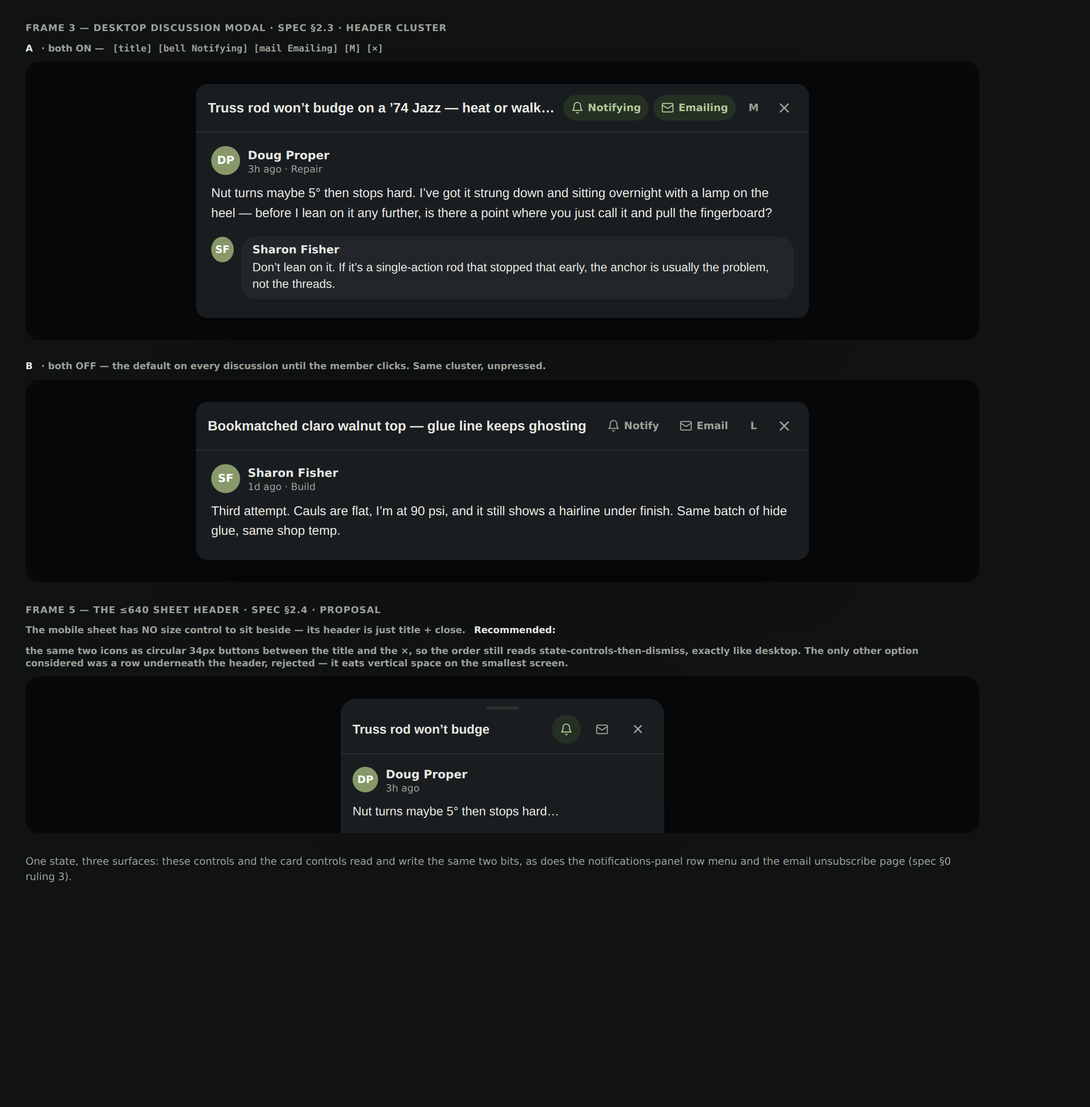
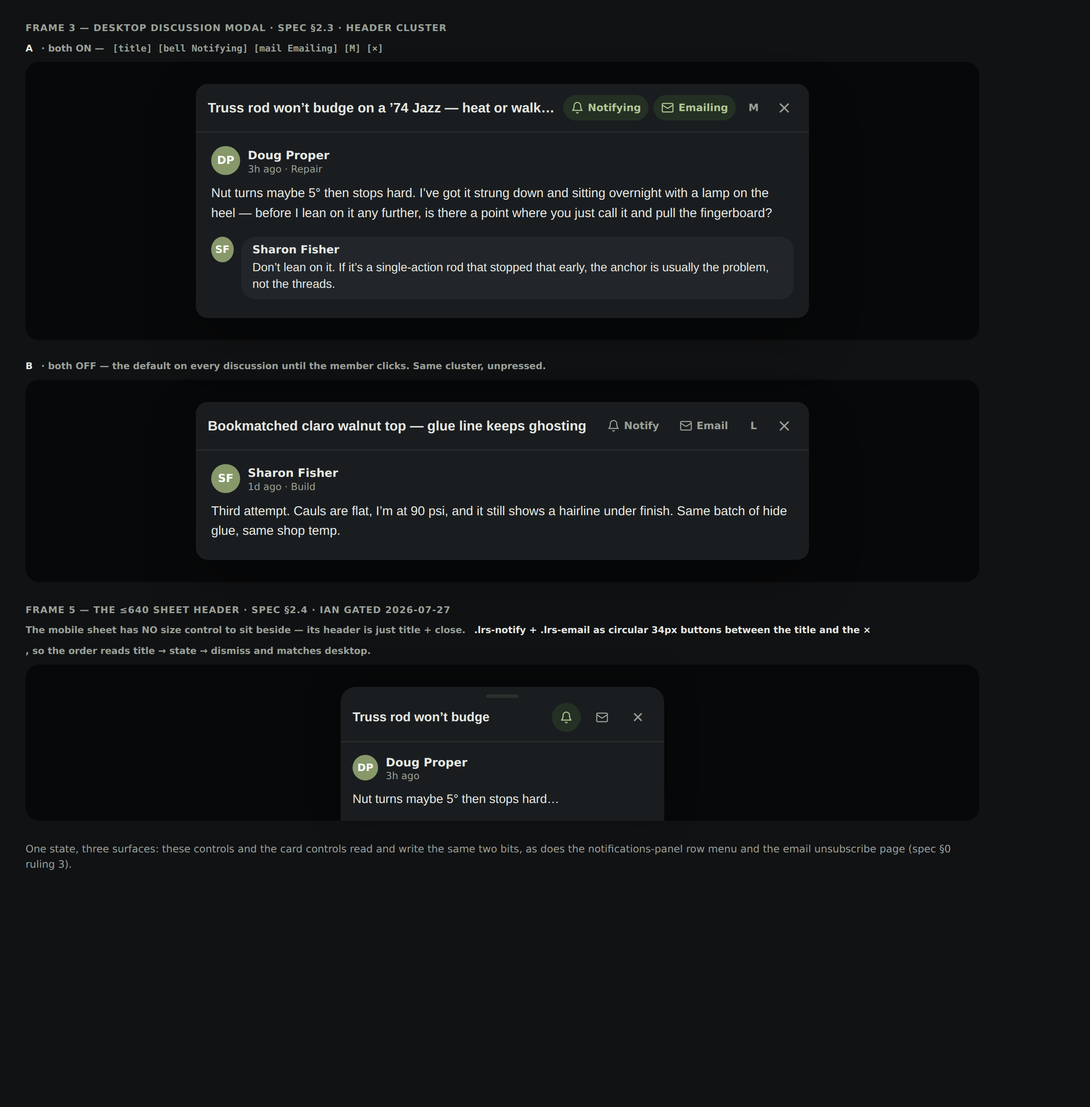
THREAD-FOLLOW-SPEC: both mobile placements gated (Ian 2026-07-27); rejected designs deleted
IAN GATE, keeper-relayed 2026-07-27 — both mobile questions CLOSED, both went the
way this lane recommended:

(1) MOBILE CARD (§2.2b, frame 2) — the two icons at the RIGHT END of the
.lg-card-actions bar, icon-only, margin-left:auto, 44px touch targets. Ian's
reason kept in the doc because it generalises: a card control whose whole point
is opting in without opening the thread is worthless if it only exists inside
the thread.

(2) MOBILE SHEET HEADER (§2.4, frame 5) — .lrs-notify + .lrs-email as circular
34px buttons BETWEEN .lrs-t and .lrs-x, so the order reads title -> state ->
dismiss and matches desktop.

Both rejected alternatives DELETED, not archived, same handling as the card
fallback: the "omit from mobile cards" variant is gone from mock-card.html, the
"row beneath the header" placement is gone from mock-modal.html and §2.4, and
each closure is recorded with its date at §9.3 so the decision stays findable
without the rejected design being re-proposable. Frames 2 and modal-d-* re-shot
and eyeballed; §7's table now marks 1/2/5 gated and only 6/7 open.

PROVENANCE NOTED IN THE DOC: closure 1 (two icons) is devmsg board post id 1377;
closures 2 and 3 arrived keeper-relayed through the operator and were NOT on the
board as of id 1378. Recorded so each ruling's origin is on the record rather
than flattened into "Ian said".

NEW §6b — CROSS-LANE COLLISION, raised not buried. This lane's §6 adds a
"Discussion emails" master row to #lg-email-prefs
[…]

Changed region(s): [[0.0312, 0.5296, 0.875, 0.81]]

diff --git a/footer-mockups/threadfollow-notif-panel/index.html b/footer-mockups/threadfollow-notif-panel/index.html
@@ -77,20 +77,22 @@
     · cites <code>main@c10df43</code> · <b>spec + mock only, nothing built</b></p>
 
   <div class="gated">
-    <h2>✓ Gated 27 July — the card carries two icons</h2>
-    <p>You chose the two-icon design over the single expanding control. That is now the spec, and the
-      rejected design has been <b>deleted</b> from the doc rather than kept as an alternative.
-      <b>Frame 1 below is settled</b> — everything else on this page is waiting on you.</p>
+    <h2>✓ Gated 27 July — all three placements are settled</h2>
+    <p><b>Desktop card:</b> two icons, not one expanding control. <b>Mobile card:</b> the same two
+      icons at the right end of the mobile action bar. <b>Mobile sheet:</b> round buttons between the
+      title and the ×. Every rejected alternative has been <b>deleted</b> from the mocks and the doc
+      rather than kept around. <b>Frames 1, 2, 3 and 5 are done</b> — two decisions left below.</p>
   </div>
 
   <div class="rules">
-    <h2>Four things to decide — each has a recommendation</h2>
+    <h2>Two things to decide — each has a recommendation</h2>
     <ol>
-      <li><b>Mobile card</b> — mobile uses a different action bar. <i>Recommended: same two icons, right end of it.</i> → frame 2</li>
-      <li><b>Mobile sheet header</b> — it has no S/M/L/XL to sit beside. <i>Recommended: circular peers of the ×.</i> → frame 5</li>
-      <li><b>Account page</b> — how per-thread email fits the Weekly/Event switches. <i>Recommended: one new master row.</i> → frame 6</li>
+      <li><b>Account page</b> — how per-thread email fits the Weekly/Event switches you already ship. <i>Recommended: one new master row.</i> → frame 6</li>
       <li><b>The 1,519 subscriptions already emailing members</b> — <i>Recommended: change no data, make them visible and one tap from off.</i> → frame 7</li>
     </ol>
+    <p style="font:400 13px/1.6 var(--lg-font-sans);color:var(--lg-mute);margin:12px 0 0">
+      Plus one with no frame: whether an explicit email toggle should send email as it happens, or
+      only feed the weekly recap — at the bottom of this page.</p>
   </div>
 
   <h2 class="sec">Frame 1 — the feed card <span class="ok">gated</span></h2>
@@ -103,28 +105,26 @@
     <figure><img src="shots/card-d-dark.png" alt="Desktop feed card, dark"><figcaption>Desktop 1280 · dark</figcaption></figure>
   </div>
 
-  <h2 class="sec">Frame 2 — the mobile card <span class="ask">needs you</span></h2>
-  <h3 class="fr">Recommended: the same two icons, right end of the mobile bar</h3>
+  <h2 class="sec">Frame 2 — the mobile card <span class="ok">gated</span></h2>
+  <h3 class="fr">The same two icons, right end of the mobile bar</h3>
   <p class="fr-note">Mobile cards use a different, sparser action bar — only Like, replies and Share,
-    with wide gaps — so unlike desktop there is room, with space to spare.
-    <b>The alternative</b> is to leave mobile cards alone and let the sheet header carry both. Cleaner
-    card, but then someone scrolling the feed can't opt in to anything without opening every thread
-    first, which is most of what a card control is for. Both are drawn.</p>
+    with wide gaps — so unlike desktop there is room, with space to spare. Icon-only, 44px touch
+    targets. Your reason for choosing it is worth keeping: a card control whose whole point is opting
+    in without opening the thread is worthless if it only exists inside the thread.</p>
   <div class="grid">
     <figure><img src="shots/card-m-light.png" alt="Mobile card, light"><figcaption>Mobile 390 · light — recommended above, alternative below</figcaption></figure>
     <figure><img src="shots/card-m-dark.png" alt="Mobile card, dark"><figcaption>Mobile 390 · dark</figcaption></figure>
   </div>
   <p class="live">Live: <a href="mock-card.html">mock-card.html</a> · <a href="mock-card.html?theme=dark">dark</a></p>
 
-  <h2 class="sec">Frames 3 + 5 — the discussion modal <span class="ask">sheet needs you</span></h2>
+  <h2 class="sec">Frames 3 + 5 — the discussion modal <span class="ok">gated</span></h2>
   <h3 class="fr">Beside the size control</h3>
   <p class="fr-note">The cluster reads <b>[title] [bell] [mail] [M] [×]</b> — the two state controls
     grouped together, close rightmost. Second block shows both OFF, which is what every discussion
     looks like until someone clicks.<br><br>
-    <b>Frame 5, third block — the mobile sheet header needs your word.</b> It has no S/M/L/XL control
-    to sit beside. <b>Recommended:</b> the same two icons as round buttons between the title and the
-    ×, so the order still reads title → switches → close, exactly like desktop. The only other option
-    was a row underneath the header; rejected, it eats vertical space on the smallest screen.</p>
+    <b>Frame 5, third block — the mobile sheet header.</b> It has no S/M/L/XL control to sit beside,
+    so the two icons are round buttons between the title and the ×, keeping the order
+    title → switches → close, exactly like desktop.</p>
   <div class="grid">
     <figure><img src="shots/modal-d-light.png" alt="Modal header, light"><figcaption>Desktop 1280 · light</figcaption></figure>
     <figure><img src="shots/modal-d-dark.png" alt="Modal header, dark"><figcaption>Desktop 1280 · dark</figcaption></figure>
@@ -211,6 +211,19 @@
     <p>With opt-in now the rule, the natural answer is that <b>an explicit envelope toggle is what
       earns you the email</b> — a per-discussion email switch that never sends email would be a
       contradiction. But that is your call, not ours, so nothing has been decided.</p>
+  </div>
+
+  <div class="open" style="border-color:var(--lg-sage);background:var(--lg-sage-tint)">
+    <h2 style="color:var(--lg-sage-d)">Heads-up — two lanes are designing your account page</h2>
+    <p>Frame 6 adds a <b>Discussion emails</b> row to the email preferences card. The weekly-recap
+      lane on dev2 is building its per-user digest section into that <b>same card</b>, governed by
+      the Weekly Digest switch you already ship. Nobody has done anything wrong — the two just
+      arrived from opposite ends.</p>
+    <p>The rule we are proposing keeps them from fighting: <b>the account page holds one switch per
+      kind of email; the per-discussion switches decide which discussions are in that kind; and a
+      recap is content inside a kind, never a new kind of its own.</b> If the recap stays under the
+      Weekly Digest switch rather than growing its own, both land cleanly and you keep one coherent
+      page instead of two half-designs.</p>
   </div>
 
   <p class="foot">Mock tooling, never shipped. Frames shot serially with headless Chrome on dev1;

diff --git a/footer-mockups/threadfollow-notif-panel/mock-card.html b/footer-mockups/threadfollow-notif-panel/mock-card.html
@@ -16,9 +16,12 @@
   (_feed.php:1617-1626) carries six controls; with the two toggles it carries eight,
   which is the shape Ian approved on sight.
 
-  MOBILE is the open one (spec §9.3 q1): mobile cards do NOT use .fc-actions — they use
-  the .lg-card-actions/.lg-act bar (forums.css @<=640, gap 18px), and .fc-share/.fc-save
-  are desktop-only. Both the recommendation and the one alternative are drawn below.
+  MOBILE ALSO GATED 2026-07-27: the two icons go at the RIGHT END of the .lg-card-actions bar
+  (forums.css @<=640, gap 18px), icon-only, margin-left:auto, 44px touch targets. Mobile cards do
+  NOT use .fc-actions and .fc-share/.fc-save are desktop-only, so this is its own placement.
+  The rejected alternative (omit from mobile cards, sheet header only) has been DELETED, not
+  archived — Ian's reason: a card control whose point is opting in without opening the thread is
+  worthless if it only exists inside the thread.
   Open with ?theme=dark for the dark frames.
 -->
 <link rel="stylesheet" href="_tokens.css">
@@ -123,8 +126,8 @@
     </div>
   </article>
 
-  <p class="capt" style="margin-top:30px">Frame 2 — mobile card · spec §9.3 q1 · <b>PROPOSAL</b></p>
-  <p class="legend"><b>Recommended</b> — same two icons, right end of the mobile action bar, icon-only.
+  <p class="capt" style="margin-top:30px">Frame 2 — mobile card · spec §2.2b · <b>IAN GATED 2026-07-27 — this is the design</b></p>
+  <p class="legend">Same two icons, right end of the mobile action bar, icon-only, 44px touch targets.
     The mobile bar carries only three items (Like / replies / Share) with 18px gaps, so unlike desktop there is room.</p>
 
   <article class="feed-card" style="max-width:360px">
@@ -143,25 +146,6 @@
       <span class="spacer"></span>
       <button class="fc-notify" aria-pressed="true" aria-label="Notifications on"><span class="gly"><svg class="gi" viewBox="0 0 24 24" fill="none" stroke="currentColor" stroke-width="2" stroke-linecap="round" stroke-linejoin="round" aria-hidden="true"><path d="M6 8a6 6 0 0 1 12 0c0 7 3 9 3 9H3s3-2 3-9"/><path d="M10.3 21a1.94 1.94 0 0 0 3.4 0"/></svg></span></button>
       <button class="fc-email" aria-pressed="false" aria-label="Emails off"><span class="gly"><svg class="gi" viewBox="0 0 24 24" fill="none" stroke="currentColor" stroke-width="2" stroke-linecap="round" stroke-linejoin="round" aria-hidden="true"><rect x="2" y="4" width="20" height="16" rx="2"/><path d="m22 7-8.97 5.7a1.94 1.94 0 0 1-2.06 0L2 7"/></svg></span></button>
-    </div>
-  </article>
-
-  <p class="legend"><b>Alternative</b> — leave mobile cards alone; the sheet header carries both (one tap away).
-    Cleaner card, but a member browsing the feed cannot opt in without opening every thread first.</p>
-
-  <article class="feed-card" style="max-width:360px">
-    <div class="feed-card__meta-top">
-      <span class="lg-card-avatar">SF</span>
-      <span class="lg-card-id"><a class="lg-card-author" href="#">Sharon Fisher</a><span class="lg-card-time">1d ago</span></span>
-    </div>
-    <div class="feed-card__header-body">
-      <h3 class="fc-title" style="font-size:19px">Bookmatched claro walnut top</h3>
-      <p class="fc-excerpt" style="font-size:14.5px">Third attempt. Cauls are flat, I’m at 90 psi…</p>
-    </div>
-    <div class="m-bar">
-      <button class="lg-act"><svg class="gi" viewBox="0 0 24 24" fill="none" stroke="currentColor" stroke-width="2" stroke-linecap="round" stroke-linejoin="round" aria-hidden="true"><path d="M7 10v12"/><path d="M15 5.88 14 10h5.83a2 2 0 0 1 1.92 2.56l-2.33 8A2 2 0 0 1 17.5 22H4a2 2 0 0 1-2-2v-8a2 2 0 0 1 2-2h2.76a2 2 0 0 0 1.79-1.11L12 2a3.13 3.13 0 0 1 3 3.88Z"/></svg> Like</button>
-      <button class="lg-act"><svg class="gi" viewBox="0 0 24 24" fill="none" stroke="currentColor" stroke-width="2" aria-hidden="true"><path d="M21 11.5a8.5 8.5 0 0 1-12.3 7.6L3 21l1.9-5.7A8.5 8.5 0 1 1 21 11.5z"/></svg> 4</button>
-      <button class="lg-act"><svg class="gi" viewBox="0 0 24 24" fill="none" stroke="currentColor" stroke-width="2" stroke-linecap="round" aria-hidden="true"><circle cx="18" cy="5" r="3"/><circle cx="6" cy="12" r="3"/><circle cx="18" cy="19" r="3"/><path d="M8.6 13.5l6.8 4M15.4 6.5l-6.8 4"/></svg></button>
     </div>
   </article>
 

diff --git a/footer-mockups/threadfollow-notif-panel/mock-modal.html b/footer-mockups/threadfollow-notif-panel/mock-modal.html
@@ -18,8 +18,10 @@
   is not on the page at all: retired 2026-06-10, hub_render_view_toggles() emits nothing
   (_filter-rail.php:103-114) and hub-polish.js:4387 also CSS-hides it. See spec §2.3.
 
-  Also drawn: the ≤640 sheet header (.lrs-hd, hub-polish.js:3628) which has NO size
-  cluster — that is the §2.4 parity surface, open question §9.3 q2.
+  Also drawn: the ≤640 sheet header (.lrs-hd, hub-polish.js:3628) which has NO size cluster.
+  IAN GATED 2026-07-27: circular 34px buttons between .lrs-t and .lrs-x. The rejected placement
+  (a control row BENEATH the header) has been DELETED, not archived — it added permanent vertical
+  chrome to the smallest screen.
   Open with ?theme=dark for the dark frames.
 -->
 <link rel="stylesheet" href="_tokens.css">
@@ -120,11 +122,10 @@
     </div>
   </div>
 
-  <p class="capt" style="margin-top:26px">Frame 5 — the ≤640 sheet header · spec §2.4 · <b>PROPOSAL</b></p>
+  <p class="capt" style="margin-top:26px">Frame 5 — the ≤640 sheet header · spec §2.4 · <b>IAN GATED 2026-07-27</b></p>
   <p class="legend">The mobile sheet has NO size control to sit beside — its header is just title + close.
-    <b>Recommended:</b> the same two icons as circular 34px buttons between the title and the ×, so the
-    order still reads state-controls-then-dismiss, exactly like desktop. The only other option considered
-    was a row underneath the header, rejected — it eats vertical space on the smallest screen.</p>
+    <b>.lrs-notify + .lrs-email as circular 34px buttons between the title and the ×</b>, so the order
+    reads title → state → dismiss and matches desktop.</p>
   <div class="stage" style="padding:26px 26px 0">
     <div class="lrs-card">
       <div class="lrs-grab"></div>

diff --git a/docs/atlas/THREAD-FOLLOW-SPEC.md b/docs/atlas/THREAD-FOLLOW-SPEC.md
@@ -4,9 +4,14 @@
 > Lane: threadfollow-spec (dev1, docs+mock only). Branch `threadfollow-spec`.
 > **REVISED 2026-07-27 (v2) — Ian: TWO independent toggles per discussion, NOTIFICATIONS and
 > EMAILS, both default OFF, both unsettable from three places including the email itself.**
-> **IAN GATED THE CARD 2026-07-27: two icons, not a single expanding control.** He reviewed the
-> previs and chose the two-icon design; the single-control fallback is dead and has been removed
-> from this document rather than kept as an alternative.
+> **IAN GATED, 2026-07-27 — three closures, all recorded here so none is re-litigated:**
+> **(1) the CARD carries two icons**, not a single expanding control; **(2) MOBILE CARD** — the two
+> icons go at the right end of the `.lg-card-actions` bar; **(3) MOBILE SHEET HEADER** — circular
+> peers between the title and the ×. Each rejected alternative has been **deleted** from this
+> document rather than archived.
+> *(Closures 2 and 3 were keeper-relayed through the operator on 2026-07-27 and were not posted to
+> the devmsg board as of id 1378; closure 1 is board post id 1377. Noted so the provenance of each
+> is on the record.)*
 > This supersedes v1's single follow toggle, which itself reversed the original auto-subscribe
 > design. See §0.0 for the trail and §9 for what is still Ian's to decide.
 > Mock frames: `footer-mockups/threadfollow-notif-panel/` — published for gating at
@@ -48,6 +53,8 @@ replies to their own topic without toggling anything.
    control cluster (§2). Ian: the affordance must be **visible, not buried**.
    **The card carries the bell and the envelope as two separate visible icons — Ian-confirmed
    2026-07-27 from the previs.** Eight controls in that action row is the shape he approved.
+   **Mobile placements are Ian-confirmed the same day**: right end of the mobile card bar (§2.2b)
+   and circular peers of the × in the sheet header (§2.4).
    **Explicitly NOT in the post ⋯ menu** — verified wrong surface twice over (§2.3).
 3. **UNSET them from three places, all reaching the same store:**
    (1) the thread itself, same controls; (2) the notifications panel per-row ⋯ (§3.5);
@@ -194,21 +201,20 @@ server-rendered inert and batch-hydrated with the viewer's real state.
   settled — do not re-open it.
 - **MOBILE cards are a different bar and still need Ian's word — §2.2b, proposal below.**
 
-### 2.2b Mobile card placement — PROPOSAL (frame 2)
+### 2.2b Mobile card placement — IAN-CONFIRMED 2026-07-27 (frame 2)
 
 Mobile cards do **not** use `.fc-actions`. They use `.lg-card-actions`/`.lg-act` (forums.css @≤640,
 `gap:18px; padding:8px 13px 12px`), and `.fc-share`/`.fc-save` are desktop-only (:600).
 
-**Recommended — the same two icons at the right end of the mobile bar, icon-only, `margin-left:auto`,
-≥44px touch targets.** The mobile bar carries only three items (Like / N replies / Share) against
-390px, so unlike desktop there is room; measured in frame 2 with space to spare. This keeps the
-ordering identical to desktop (state controls right, before nothing) and keeps the card's whole
-purpose intact: opting in **without** having to open the thread.
+**The two icons sit at the right end of that bar** — icon-only, `margin-left:auto`, ≥44px touch
+targets. The bar carries only three items (Like / N replies / Share) against 390px, so unlike
+desktop there is room, with space to spare in frame 2. Ordering matches desktop (state controls
+right).
 
-**Alternative — leave mobile cards alone; the sheet header (§2.4) carries both, one tap away.**
-Cleaner card. The cost is real: a member scrolling the feed cannot opt in to anything without
-opening every thread first, which is most of the value of a card control on the surface where
-people actually browse.
+Ian's reason for choosing it, worth keeping because it generalises: **a card control whose whole
+point is opting in without opening the thread is worthless if it only exists inside the thread.**
+
+*The rejected alternative — omit from mobile cards, sheet header only — is deleted, not archived.*
 
 ### 2.3 The DISCUSSION MODAL header — and why NOT the ⋯ menu
 
@@ -253,21 +259,20 @@ the cards, falling back to a single-topic read when deep-linked in cold.
 > physical placement is the same either way, so nothing in the design changes — but a build lane
 > aiming at :219-228 would be editing dead code.
 
-### 2.4 The MOBILE SHEET header — PROPOSAL (frame 5)
+### 2.4 The MOBILE SHEET header — IAN-CONFIRMED 2026-07-27 (frame 5)
 
 ≤640 the router opens `#looth-rep-sheet`, whose header is
 `<div class="lrs-hd"><span class="lrs-t"></span><button class="lrs-x">×</button></div>`
 (hub-polish.js:3628, styles :3171) — title + close, and **no size control at all**, so the desktop
 instruction ("beside S/M/L/XL") has no literal target here.
 
-**Recommended — `.lrs-notify` + `.lrs-email` as circular 34px buttons between `.lrs-t` and
-`.lrs-x`.** Same state, same handler, ≥44px effective touch targets. The order then reads
-*title → state controls → dismiss*, identical to the desktop cluster, so the two surfaces stay
-learnable as one thing.
+**`.lrs-notify` + `.lrs-email` as circular 34px buttons between `.lrs-t` and `.lrs-x`.** Same state,
+same handler, ≥44px effective touch targets. The order reads *title → state → dismiss*, identical to
+the desktop cluster, so the two surfaces stay learnable as one thing.
 
-The only other placement considered was a control row **beneath** the header. Rejected: it adds
-permanent vertical chrome to the smallest screen, on a sheet that is already competing with the
-composer and the keyboard.
+*The rejected placement — a control row beneath the header — is deleted, not archived. It added
+permanent vertical chrome to the smallest screen, on a sheet already competing with the composer and
+the keyboard.*
 
 ---
 
@@ -518,6 +523,43 @@ unbounded: someone following thirty threads gets a thirty-row settings page, and
 to open that page. **Not recommended**; drawn in frame 6 beside the recommendation so the difference
 is visible rather than argued.
 
+### 6b ⚠ CROSS-LANE COLLISION — this section and the weekly-recap lane are designing one page
+
+**Two lanes are editing `#lg-email-prefs` (membership-pages/web/manage-subscription.php:167-214)
+from opposite ends.** This spec proposes a third **Discussion emails** master row (§6); the
+weekly-recap lane on dev2 is building a per-user digest section governed by the **same Weekly
+Digest toggle** shipped at bf9e3a1. Neither lane can land cleanly without the other knowing.
+
+**What this lane needs from the weekly-recap lane — two things:**
+
+1. **The recap must NOT mint its own account-level toggle.** Under §6's rule the account page holds
+   one master *per class of email*. The weekly digest is a class; **the recap is content inside that
+   class**, not a new class. If the recap ships its own switch (e.g. "My discussions recap"), then
+   discussion content is governed by two account controls plus the per-thread bits, and §6's
+   guarantee — *the page can never say off while mail still arrives* — is dead. Keep the recap
+   governed by the existing `lg-pref-weekly` toggle and nothing else.
+2. **Say whether `#lg-email-prefs` stops being append-only markup.** Today it is sibling
+   `.lg-pref-row` divs, each wired by `wire(id, stateAction, toggleAction)` (:202-214); §6's row is
+   a fourth sibling plus one `wire()` call. If that lane converts the block to a generated list
+   (config array, REST-driven render), that is **better** for this spec — but §6's delta then
+   becomes a config entry rather than markup, and it must be re-spec'd before build. Either shape
+   works. Silence is the problem.
+
+**What it must not touch:**
+
+- **The semantics of `lg_weekly_member_state` / `lg_weekly_member_toggle`.** §3.7 rides that toggle;
+  splitting, inverting or making it tri-state breaks both §3.7 and §6's precedence rule.
+- **Weekly Digest's independence from discussion email.** A member who turns **Discussion emails**
+  off must still receive the weekly recap — that is the entire point of having a recap, and it is
+  what makes §9.1's options A and C survivable at all.
+
+**Mechanical:** both lanes edit the same file, so a merge conflict is certain rather than likely —
+whoever lands second rebases, and neither hand-edits live (REPO-MANDATE).
+
+**Offered as the shared contract:** *account = one master per email class; per-thread = membership
+of that class; a recap is content inside a class, never a class of its own.* If both lanes adopt
+that, the page composes with no further coordination.
+
 ### 3.7 Weekly digest recap (unchanged from v1, independent of §9.1)
 
 - One section in the existing weekly digest (lg-weekly-digest, FluentCRM campaign to list 3 —
@@ -541,16 +583,17 @@ Published for gating (cookie-gated dev2):
 | # | Frame | Shows | Status |
 |---|---|---|---|
 | 1 | `card-d-{light,dark}` 1280 | **Feed card** — bell + envelope beside Save, on/off states | **IAN GATED 2026-07-27** |
-| 2 | `card-m-{light,dark}` 390 | **Mobile card** — recommendation (icons at the right end of the mobile bar) vs the alternative (not on mobile cards) | **PROPOSAL — §2.2b** |
+| 2 | `card-m-{light,dark}` 390 | **Mobile card** — the two icons at the right end of the mobile bar | **IAN GATED 2026-07-27** |
 | 3 | `modal-d-{light,dark}` 1280 | **Modal header** *[title] [bell] [mail] [M] [×]*, both states | previs'd |
 | 4 | `unsub-d-{light,dark,done}` 1280 + `unsub-m-light` 390 | **Email unsubscribe page** — ask state, done state with Undo (§4.3) | previs'd |
-| 5 | (in `modal-d-*`) | **Mobile sheet header** — the ≤640 placement, which has no size control to sit beside | **PROPOSAL — §2.4** |
+| 5 | (in `modal-d-*`) | **Mobile sheet header** — circular peers between the title and the × | **IAN GATED 2026-07-27** |
 | 6 | `account-d-{light,dark}` 1280, `account-m-light` 390 | **Account email prefs** — the third "Discussion emails" master row vs the per-thread-list alternative | **PROPOSAL — §6** |
 | 7 | `legacy-d-{light,dark}` 1280 | **The 1,519 existing subscriptions** — the recommendation shown as a member experiences it | **PROPOSAL — §9.2** |
 | 8 | `notif-d-{light,dark}` 1280, `notif-m-{light,dark}` 390 | Notifications panel: coalesced row + ⋯ menu carrying both bits | previs'd |
 
-Frames 2, 5, 6 and 7 are the ones carrying an open decision; each shows a recommendation and at
-most one alternative, side by side, so the choice can be made by looking rather than by reading.
+Frames 6 and 7 are the only ones still carrying an open decision; each shows a recommendation and
+at most one alternative, side by side, so the choice can be made by looking rather than by reading.
+Frames 1, 2 and 5 are gated — their rejected alternatives are gone from the mocks as well as the doc.
 
 ---
 
@@ -666,11 +709,11 @@ while it sits untouched.
 
 ### 9.3 Smaller open questions
 
-1. ~~Two icons vs one expanding control~~ — **CLOSED, Ian gated two icons 2026-07-27** (§2.1). The
-   fallback has been deleted from this document, not archived.
-2. **Card control on mobile** (§2.2b) — **proposal + one alternative, frame 2.** Recommended: the
-   same two icons at the right end of the mobile bar.
-3. **Mobile sheet header** (§2.4) — **proposal, frame 5.** Recommended: circular peers of the ×.
+1. ~~Two icons vs one expanding control~~ — **CLOSED, Ian 2026-07-27** (§2.1). Fallback deleted, not archived.
+2. ~~Card control on mobile~~ — **CLOSED, Ian 2026-07-27** (§2.2b): right end of the mobile bar.
+   Rejected alternative deleted, not archived.
+3. ~~Mobile sheet header~~ — **CLOSED, Ian 2026-07-27** (§2.4): circular peers of the ×.
+   Rejected placement deleted, not archived.
 4. **Digest recap** (§3.7) — may public-forum topic TITLES appear, or names + counts only? *(No
    frame; low stakes, and it does not block anything.)*
 5. **Content cards** (§2.2) — v1 is discussion cards only. Should articles/videos get "email me
